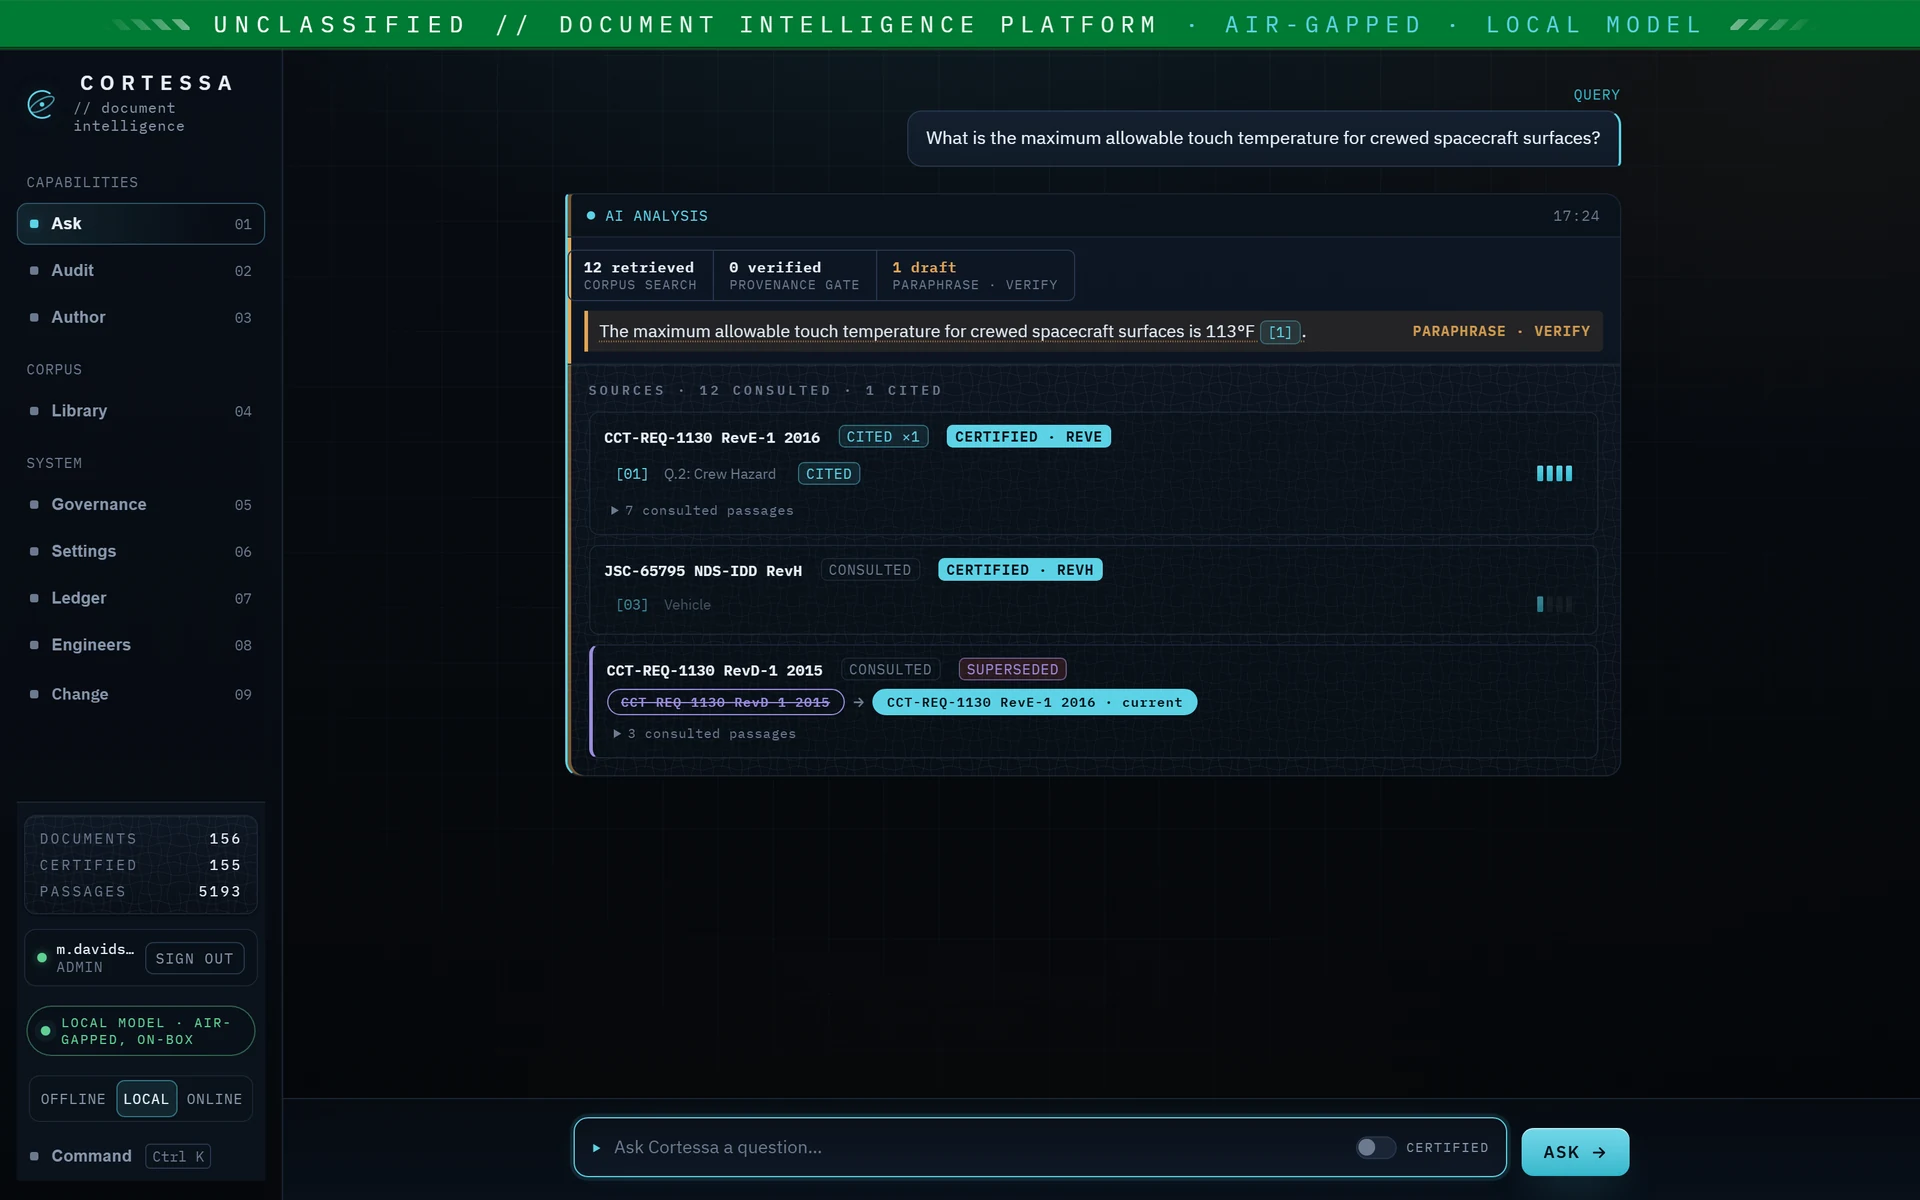
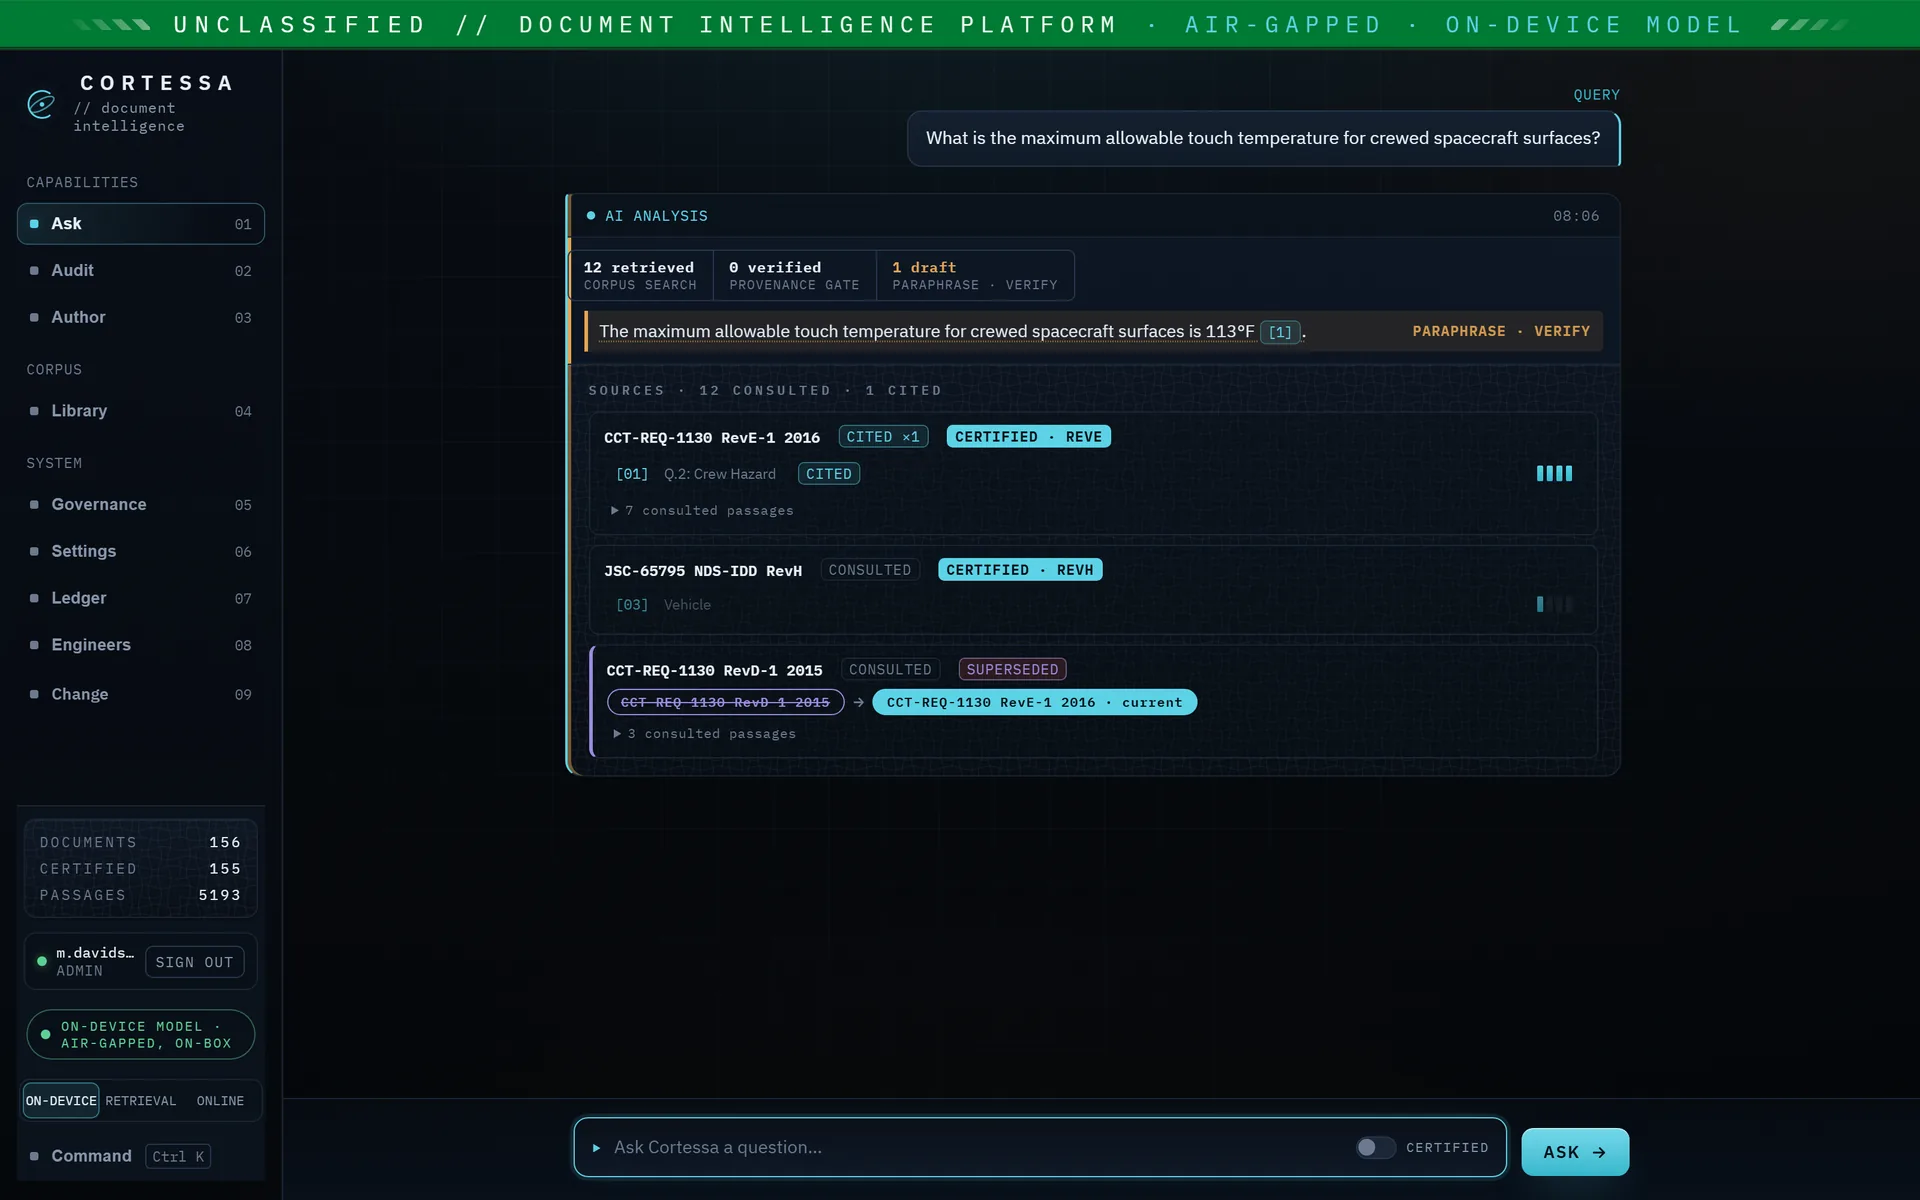
modes: on-device is the standard mode, not one option among three
The tier list read "Offline (default) / In-region cloud / On-device", which says the
box arrives empty and you add AI afterwards. It carries the model and the whole
ingestion pipeline, resident, running full time.

The order is the claim, so the order changes: on-device (standard) -> retrieval-only
(the floor: ranked source passages with their citations, never a failure) -> in-region
cloud, which is a future option for a site whose policy later permits one, ships
switched off, and can be locked out entirely.

Traced to glossary §5, which traced to a July spec written the day the on-device
provider landed and whose provider list omits it. On-device was appended to a
cloud-era list, so it really was the afterthought.

security.html's heading and intro follow, and the assurance-note now says the off-box
tier is off AND lockable rather than only that its use is logged.

Console captures re-shot against a build that says all this: the ribbon reads
ON-DEVICE MODEL, the rail pill reads ON-DEVICE MODEL · AIR-GAPPED, ON-BOX, and the
switch reads ON-DEVICE | RETRIEVAL | ONLINE. Same query, same supersession chain,
same 57-finding audit board.

Changed region(s): [[0.0625, 0.0, 0.9375, 0.0308], [0.0, 0.6783, 0.125, 0.925]]

diff --git a/security.html b/security.html
@@ -4,7 +4,7 @@
   <meta charset="utf-8">
   <meta name="viewport" content="width=device-width, initial-scale=1">
   <title>Security &amp; sovereignty — Cortessa</title>
-  <meta name="description" content="Air-gap-safe and OFFICIAL-tier by construction: no external calls, on-device and in-region options, offline cryptographic licensing, and auditability.">
+  <meta name="description" content="Air-gap-safe and OFFICIAL-tier by construction: the model runs on the box, no external calls, offline cryptographic licensing, and auditability.">
   <link rel="canonical" href="https://cortessa.co.uk/security.html">
   <meta name="color-scheme" content="light dark">
   <link rel="preload" href="assets/fonts/PlexSans-Regular.woff2" as="font" type="font/woff2" crossorigin>
@@ -16,7 +16,7 @@
   <meta property="og:site_name" content="Cortessa">
   <meta property="og:type" content="website">
   <meta property="og:title" content="Security &amp; sovereignty — Cortessa">
-  <meta property="og:description" content="Air-gap-safe and OFFICIAL-tier by construction: no external calls, on-device and in-region options, offline cryptographic licensing, and auditability.">
+  <meta property="og:description" content="Air-gap-safe and OFFICIAL-tier by construction: the model runs on the box, no external calls, offline cryptographic licensing, and auditability.">
   <meta property="og:url" content="https://cortessa.co.uk/security.html">
   <meta property="og:image" content="https://cortessa.co.uk/assets/img/og-card.png">
   <meta property="og:image:width" content="1200">
@@ -91,17 +91,19 @@
       <div class="wrap reveal">
         <div class="desig">
           <span class="mono-label">02 / Modes</span>
-          <span class="mono-label desig-note">Always opt-in · shown on the ribbon</span>
+          <span class="mono-label desig-note">On-device standard · shown on the ribbon</span>
         </div>
-        <h2 id="modes-heading">On-device and in-region options, always opt-in</h2>
+        <h2 id="modes-heading">The model is on the box; the cloud is a switch you need never flip</h2>
         <p class="section-intro">
-          When a deployment chooses to bring an AI model into the loop, it does so explicitly and
-          within a stated boundary. The classification ribbon shows the active mode at all times.
+          The unit answers with a model already resident on it, inside your boundary. The off-box
+          tier exists so that a site whose policy later permits a regional cloud option is not
+          rebuilt to get one — it ships switched off and can be locked out permanently. The
+          classification ribbon shows the active mode at all times.
         </p>
         <ul class="tier-list" aria-label="Assurance tiers">
-          <li><strong>Offline (default)</strong> <span>pure local retrieval; nothing leaves the machine to answer.</span></li>
-          <li><strong>In-region cloud</strong> <span>optional AI kept in-region (UK, London / eu-west-2); opt-in and logged.</span></li>
-          <li><strong>On-device</strong> <span>optional AI fully on-device; the same gate applies, and nothing leaves the machine.</span></li>
+          <li><strong>On-device (standard)</strong> <span>the model and the whole ingestion pipeline are resident on the box and run full time; nothing leaves the machine.</span></li>
+          <li><strong>Retrieval only</strong> <span>the floor beneath it — ranked source passages with their citations, no model in the loop. Always available; never a failure.</span></li>
+          <li><strong>In-region cloud — off by default</strong> <span>a future option for a site whose policy later permits one. It ships switched off, and can be locked out entirely so it cannot be selected at all. Opt-in and logged if it is ever enabled (UK, London / eu-west-2).</span></li>
         </ul>
       </div>
     </section>
@@ -147,7 +149,7 @@
         </div>
         <ul class="feature-list">
           <li><strong>Deterministic gate.</strong> Never-false-positive by design — the guarantee is enforced in code, not left to a prompt.</li>
-          <li><strong>In-region option logged.</strong> When in-region AI is used, it is opt-in and logged, so the boundary crossing is visible.</li>
+          <li><strong>The off-box tier is off, and lockable.</strong> It ships disabled and hidden; an administrator must switch it on deliberately, and an allowlist can remove it permanently. If it is ever used it is logged, so the boundary crossing stays visible.</li>
           <li><strong>Self-contained footprint.</strong> No server to harden, no CDN to trust, no tracker to review.</li>
           <li><strong>The engineer signs off.</strong> Cortessa hands over cited evidence; it never certifies on your behalf.</li>
         </ul>

diff --git a/how-it-works.html b/how-it-works.html
@@ -130,13 +130,14 @@
         </div>
         <h2 id="tiers-heading">Three assurance tiers</h2>
         <p class="section-intro">
-          Three modes, each shown live on a classification ribbon so the operator always knows
-          the boundary they are working within.
+          The box answers on its own. The model and the ingestion pipeline live on it and run full
+          time, and every mode is shown live on a classification ribbon so the operator always
+          knows the boundary they are working within.
         </p>
         <ul class="tier-list" aria-label="Assurance tiers">
-          <li><strong>Offline (default)</strong> <span>pure local retrieval; nothing leaves the machine to answer.</span></li>
-          <li><strong>In-region cloud</strong> <span>optional AI in-region (UK, London / eu-west-2); opt-in and logged.</span></li>
-          <li><strong>On-device</strong> <span>optional AI fully on-device; the same gate applies, and nothing leaves the machine. In the independent blind exam this mode refused all 12 out-of-corpus questions with 0 fabrications.</span></li>
+          <li><strong>On-device (standard)</strong> <span>the model and the whole ingestion pipeline are resident on the box and run full time; nothing leaves the machine. In the independent blind exam this mode refused all 12 out-of-corpus questions with 0 fabrications.</span></li>
+          <li><strong>Retrieval only</strong> <span>the floor beneath it &mdash; ranked source passages with their citations, no model in the loop. Always available; never a failure.</span></li>
+          <li><strong>In-region cloud &mdash; off by default</strong> <span>a future option for a site whose policy later permits one. It ships switched off, and can be locked out entirely so it cannot be selected at all. Opt-in and logged if it is ever enabled (UK, London / eu-west-2).</span></li>
         </ul>
       </div>
     </section>

diff --git a/index.html b/index.html
@@ -325,9 +325,9 @@
             <p><a class="text-link" href="sectors.html">Explore sectors &amp; use cases</a></p>
           </div>
           <ul class="tier-list" aria-label="Assurance tiers">
-            <li><strong>Offline (default)</strong> <span>pure local retrieval; nothing leaves the machine.</span></li>
-            <li><strong>In-region cloud</strong> <span>optional AI via a UK (London) entry region; opt-in and logged.</span></li>
-            <li><strong>On-device</strong> <span>optional AI fully on-device; the same gate applies, nothing leaves the machine.</span></li>
+            <li><strong>On-device (standard)</strong> <span>the model and the whole ingestion pipeline are resident on the box and run full time; nothing leaves the machine.</span></li>
+            <li><strong>Retrieval only</strong> <span>the floor beneath it &mdash; ranked source passages with their citations, no model in the loop. Always available; never a failure.</span></li>
+            <li><strong>In-region cloud &mdash; off by default</strong> <span>a future option for a site whose policy later permits one. It ships switched off, and can be locked out entirely so it cannot be selected at all. Opt-in and logged if it is ever enabled (UK, London entry region).</span></li>
           </ul>
         </div>
       </div>
